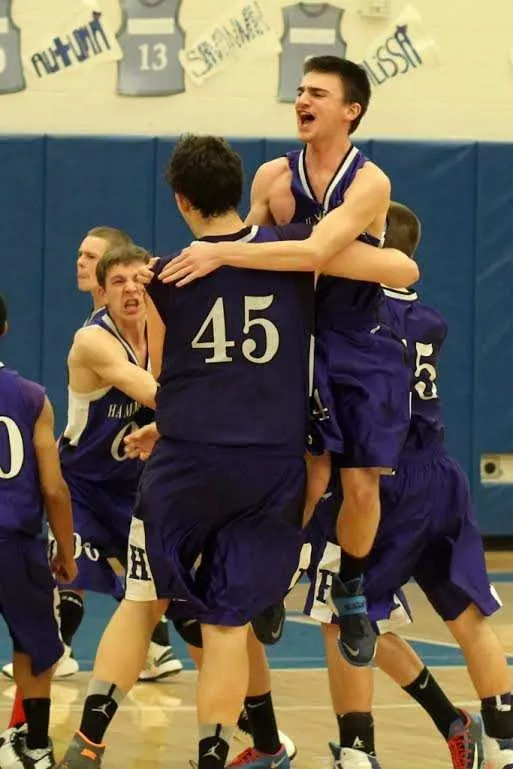
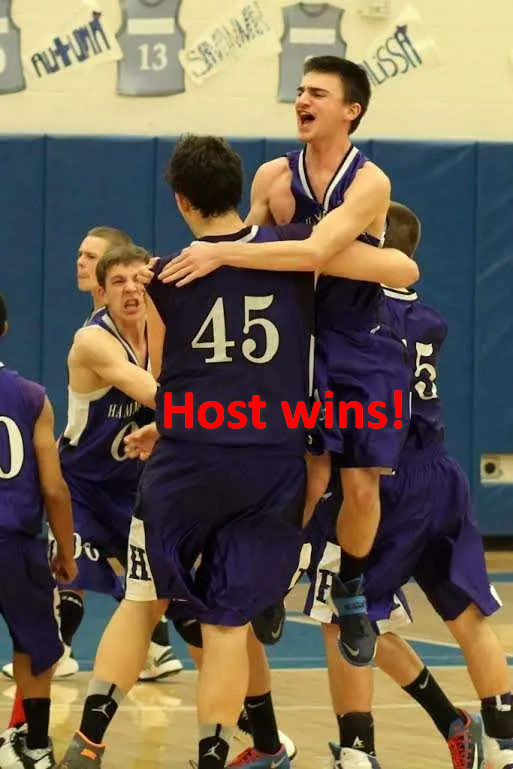
feat: update host-winer-image and guest winer image

Changed region(s): [[0.3119, 0.4993, 0.7797, 0.5618]]

diff --git a/index.html b/index.html
@@ -66,7 +66,7 @@
         src="./assets/images/host-winer-image.webp"
         alt="victorious basketball team"
       />
-
+      <!--add guest-winer-image in images folder and restyle host-winer-image-->
       <img
         id="guest-winer-image"
         src="./assets/images/guest-winer-image.webp"
